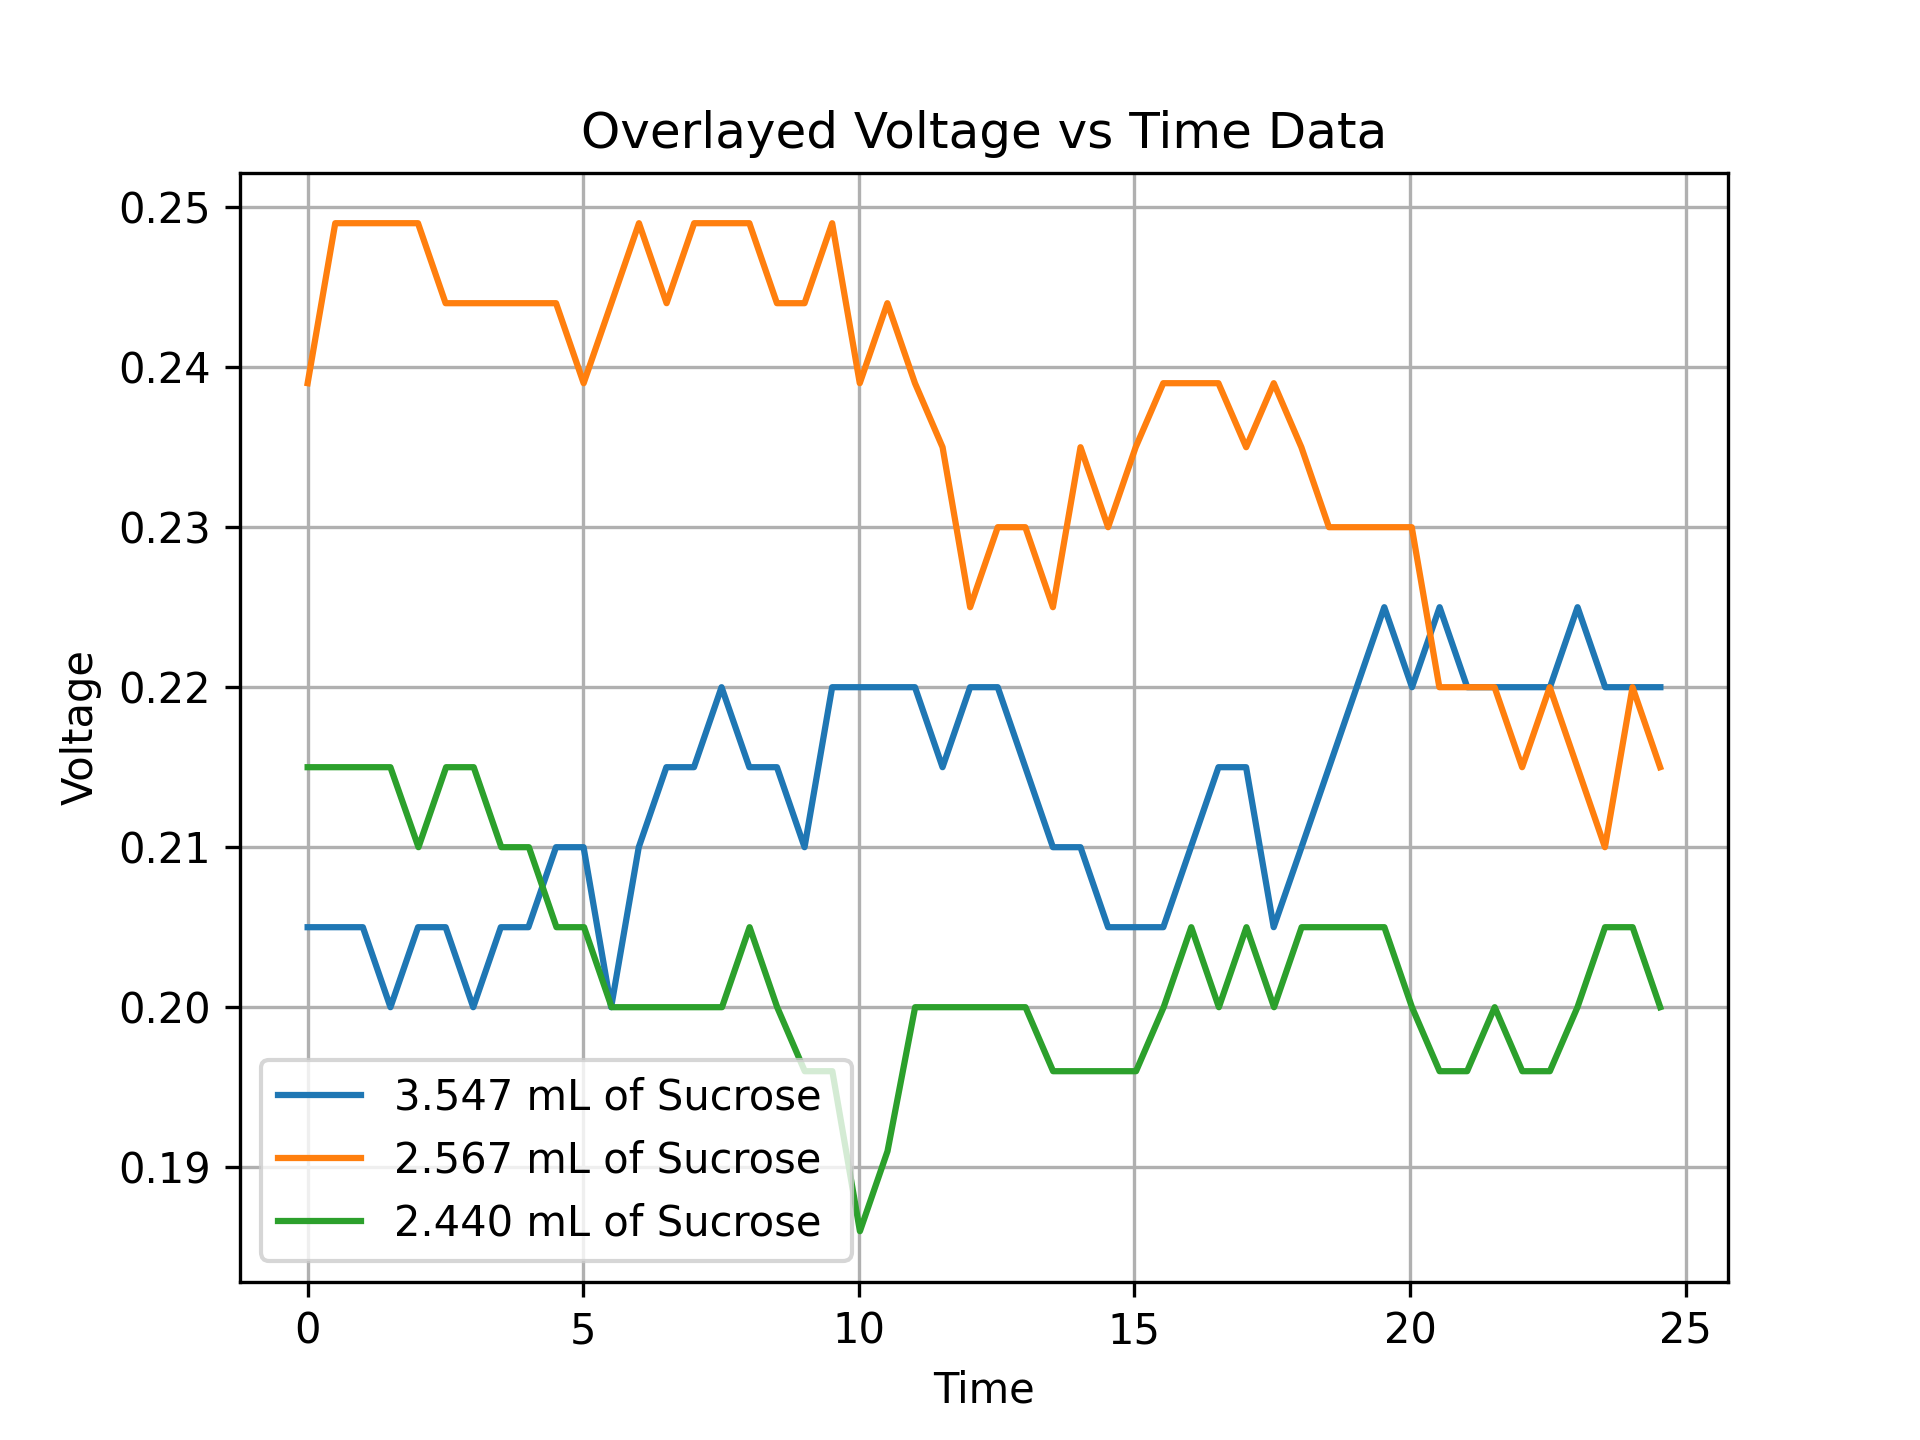
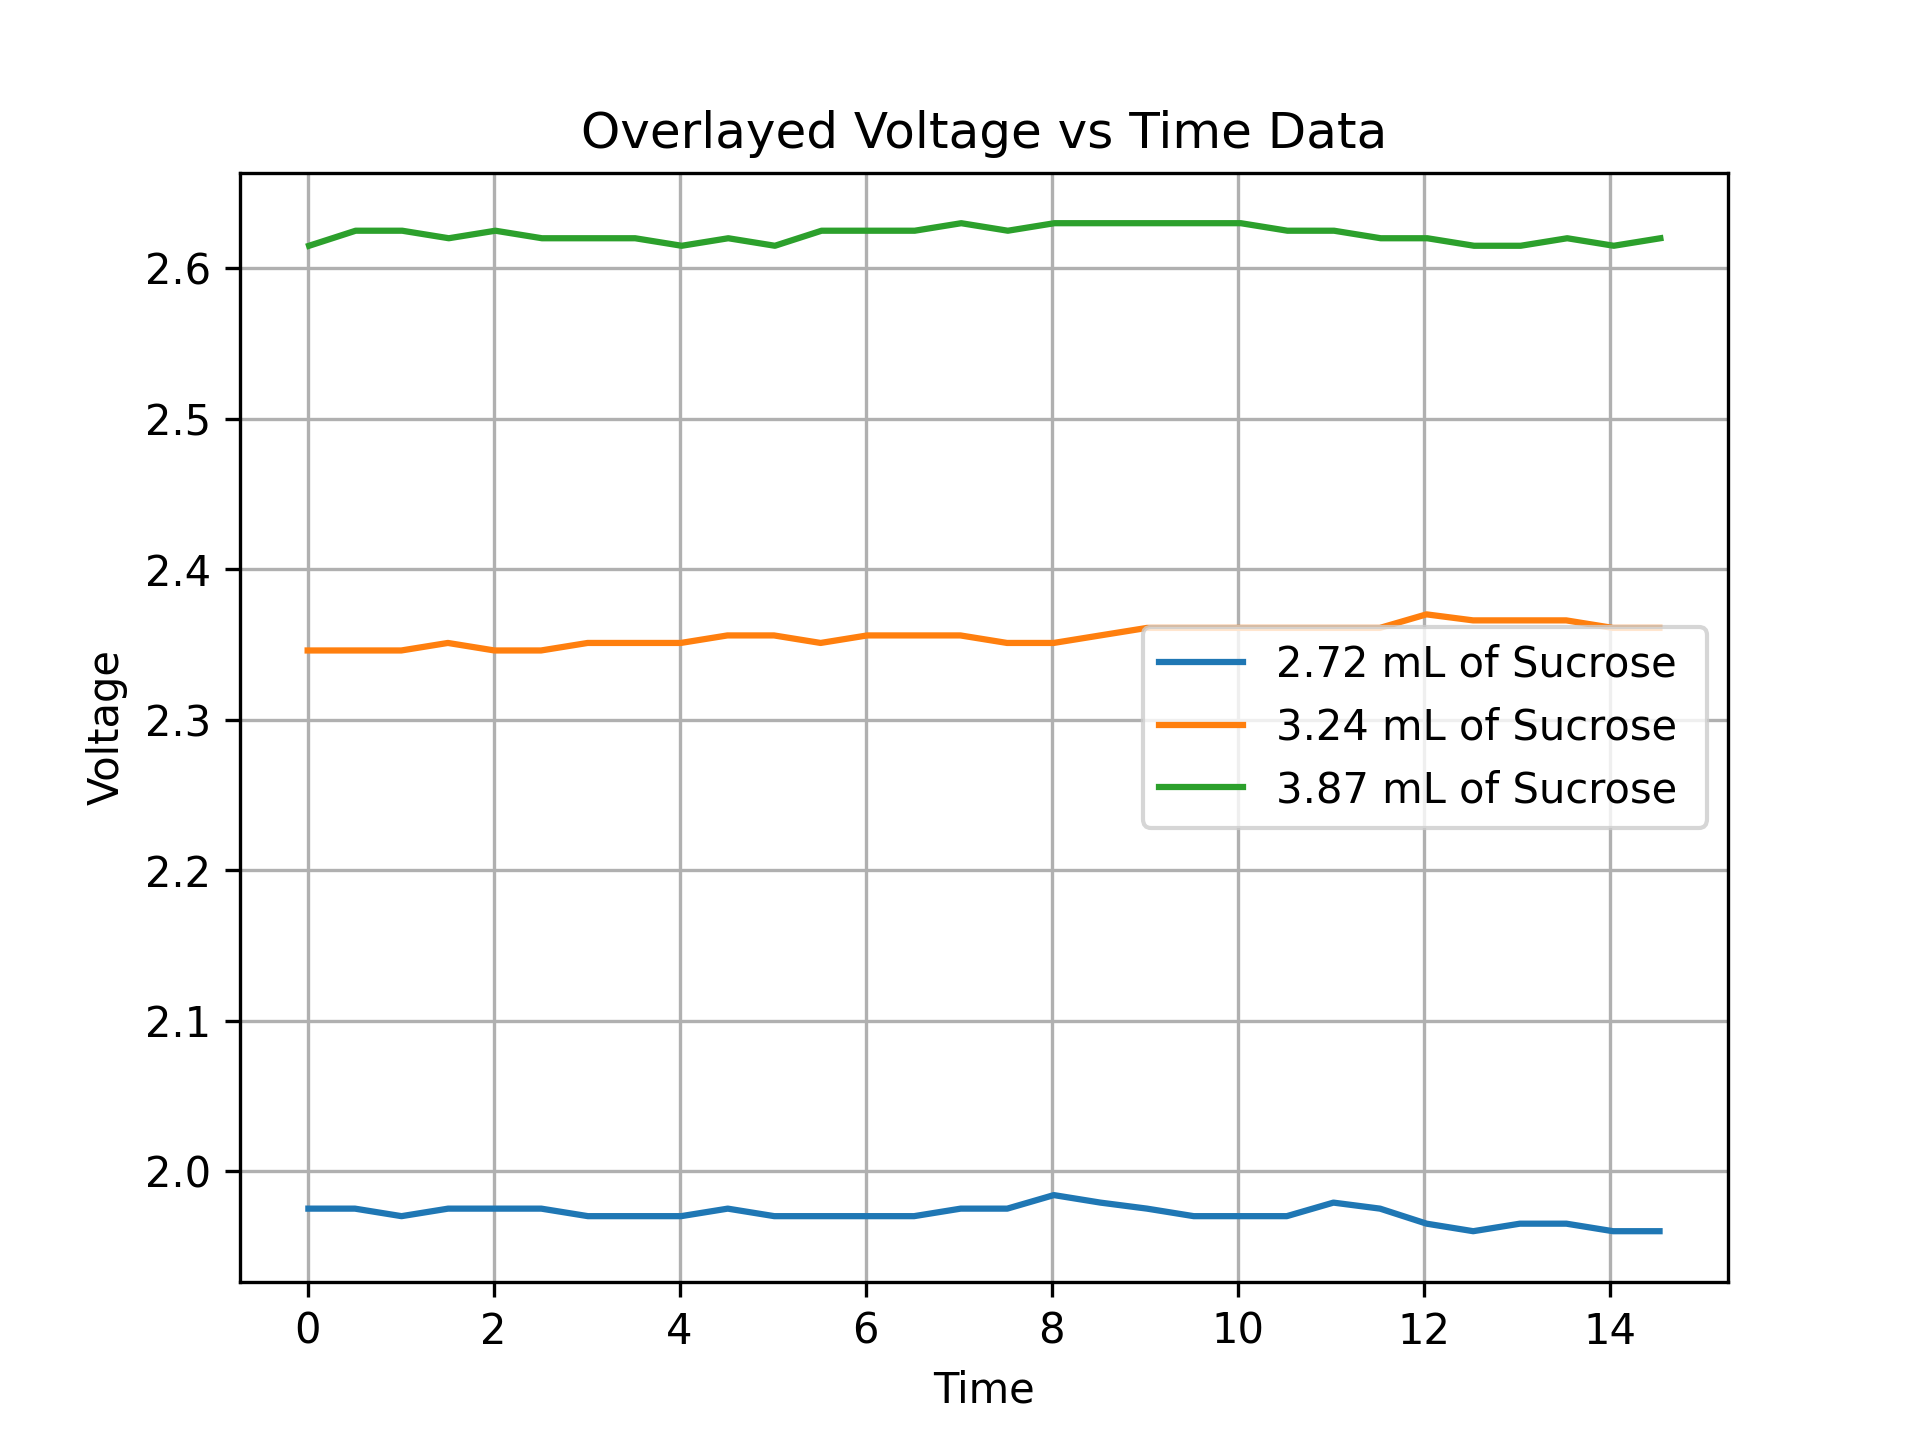
update: fixed crazy signal jumps

diff --git a/main.py b/main.py
@@ -1,56 +1,11 @@
-from pyfirmata import Arduino, util
-import serial 
-import time
-import matplotlib.pyplot as plt
-import json #could do .txt, lets test json first 
-#import pandas as pd
-#fake push
-board = Arduino("COM3")
-voltage = 0.0
+import numpy as np
+import json
 
-it = util.Iterator(board)
-it.start()
+with open('data_collected/3.24mL.json', 'r') as f2:
+    data2 = json.load(f2)
 
-pin = board.get_pin('a:5:i') #a for analog, 5 for pin number, i for input 
-#define array to store values, maybe add to dataframe 
-volt_data = []
-duration = int(input())
-start = time.time()
+time2, voltage2 = data2['Time'], data2['Voltage']
 
-while time.time() - start < duration: #make while loop time based  - done
-    sensorVal = pin.read()
-    
-    if sensorVal is None: 
-        print("No reading found...")
-        break
-    
-    voltage = sensorVal * (5.0 / 1023.0)
+print(np.mean(voltage2))
 
-
-    print(" ")
-    volt_data.append(voltage)
-    print(f"Voltage: {voltage}")
-
-
-    time.sleep(1) #parameter is in seconds
-
-board.exit()
-fileName = input("File name?")
-x_axis = list(range(len(volt_data)))  # this will only work for 1s increments which is not reasonable
-#potential idea: record elapsed time in its own array right after volt_data.append(voltage), so it would time.time()-start
-
-with open(f"data_collected/{fileName}.json", "w") as json_file:
-    json.dump({"Time": x_axis, "Voltage": volt_data}, json_file, indent = 1)
-
-plt.figure(figsize=(10, 5))
-plt.plot(x_axis, volt_data, linestyle='-', color = 'g', label='Voltage (V)')
-plt.title("Voltage/Time")
-plt.xlabel("Time (s)")
-plt.ylabel("Voltage (V)") 
-plt.legend()
-plt.grid(True)
-plt.savefig(f'data_collected/{fileName}.png', dpi=300)
-plt.show()
-
-print("JSON and PNG files saved")
-
+#ESR : Equivalent Series Resistance in Real world capacitor

diff --git a/graph.py b/graph.py
@@ -1,22 +1,22 @@
 import matplotlib.pyplot as plt
 import json
 
-with open('data_collected/ActualFinalNewSensor.json', 'r') as f1:
+with open('data_collected/2.72ML.json', 'r') as f1:
     data1 = json.load(f1)
 
-with open('data_collected/NewSensorFinal.json', 'r') as f2:
+with open('data_collected/3.24mL.json', 'r') as f2:
     data2 = json.load(f2)
 
-with open('data_collected/oldSensTimeSeries.json', 'r') as f3:
+with open('data_collected/3.87mL.json', 'r') as f3:
     data3 = json.load(f3)
 
 time1, voltage1 = data1['Time'], data1['Voltage']
 time2, voltage2 = data2['Time'], data2['Voltage']
 time3, voltage3 = data3['Time'], data3['Voltage']
 
-plt.plot(time1, voltage1, label='3.547 mL of Sucrose')
-plt.plot(time2, voltage2, label='2.567 mL of Sucrose')
-plt.plot(time3, voltage3, label='2.440 mL of Sucrose ')
+plt.plot(time1, voltage1, label='2.72 mL of Sucrose')
+plt.plot(time2, voltage2, label='3.24 mL of Sucrose')
+plt.plot(time3, voltage3, label='3.87 mL of Sucrose ')
 
 plt.xlabel('Time')
 plt.ylabel('Voltage')
@@ -28,3 +28,4 @@ plt.grid(True)
 plot_path = f"data_collected/overlayedOldSensor.png"
 plt.savefig(plot_path, dpi=300)
 plt.show()
+

diff --git a/serialMain.py b/serialMain.py
@@ -4,7 +4,7 @@ import matplotlib.pyplot as plt
 import json
 
 
-board = serial.Serial(port='COM3', baudrate=115200, timeout=.1)
+board = serial.Serial(port='COM3', baudrate=9600, timeout=.1)
 time.sleep(2)  # Wait for connection
 print("Connected to Arduino on COM3")
 
